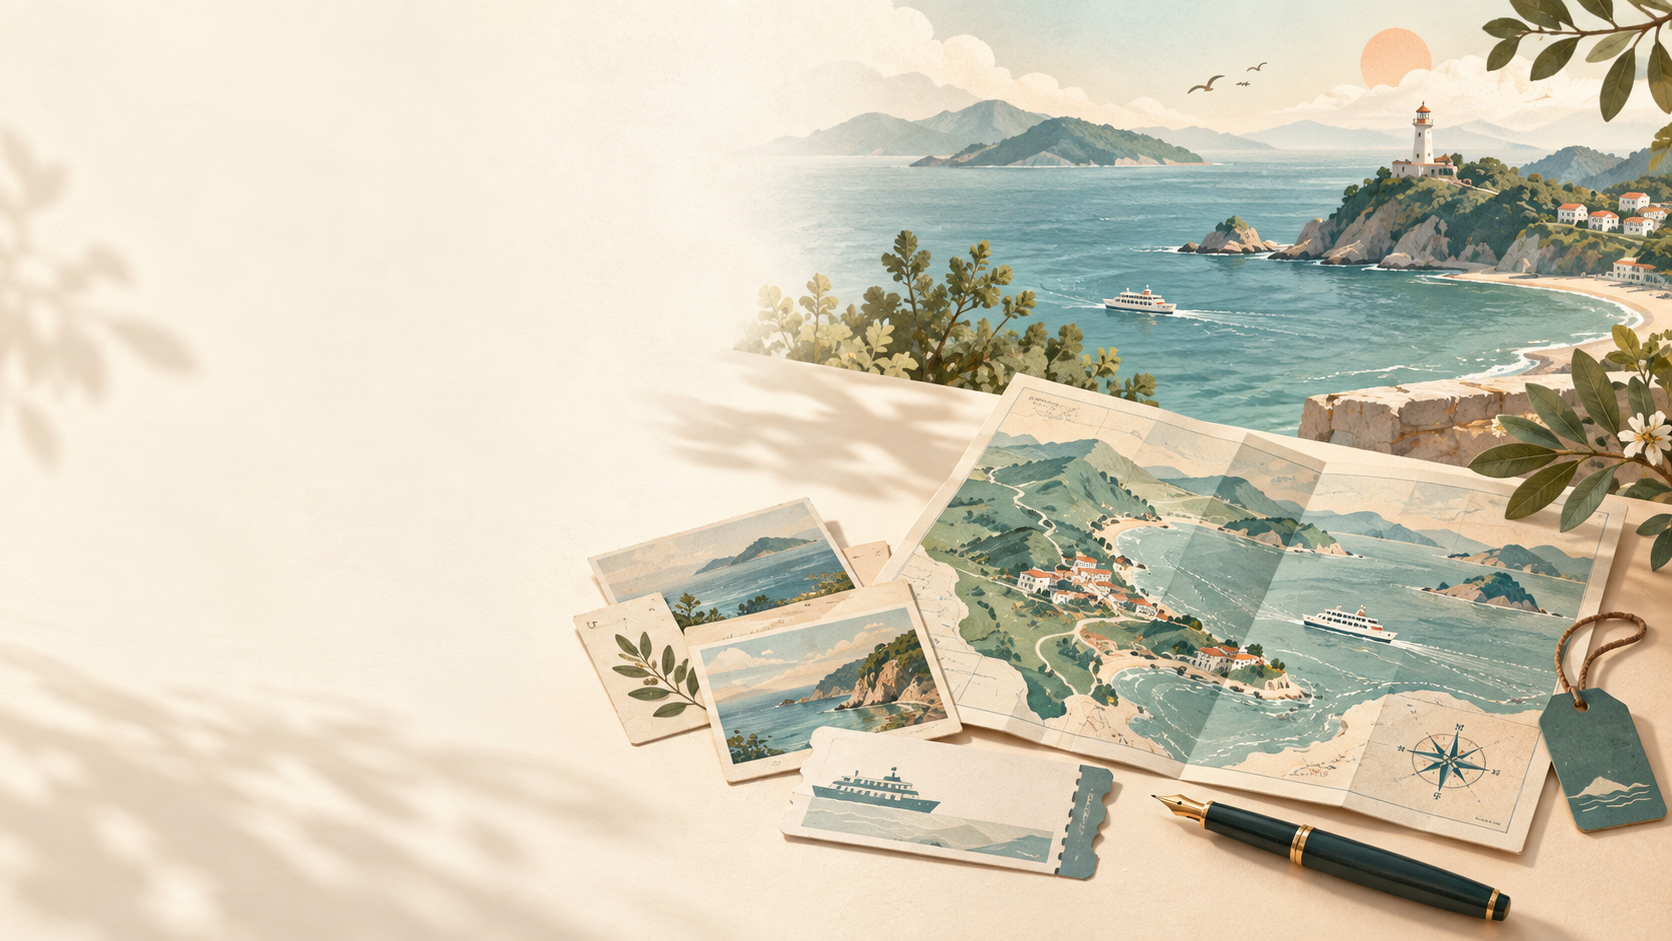
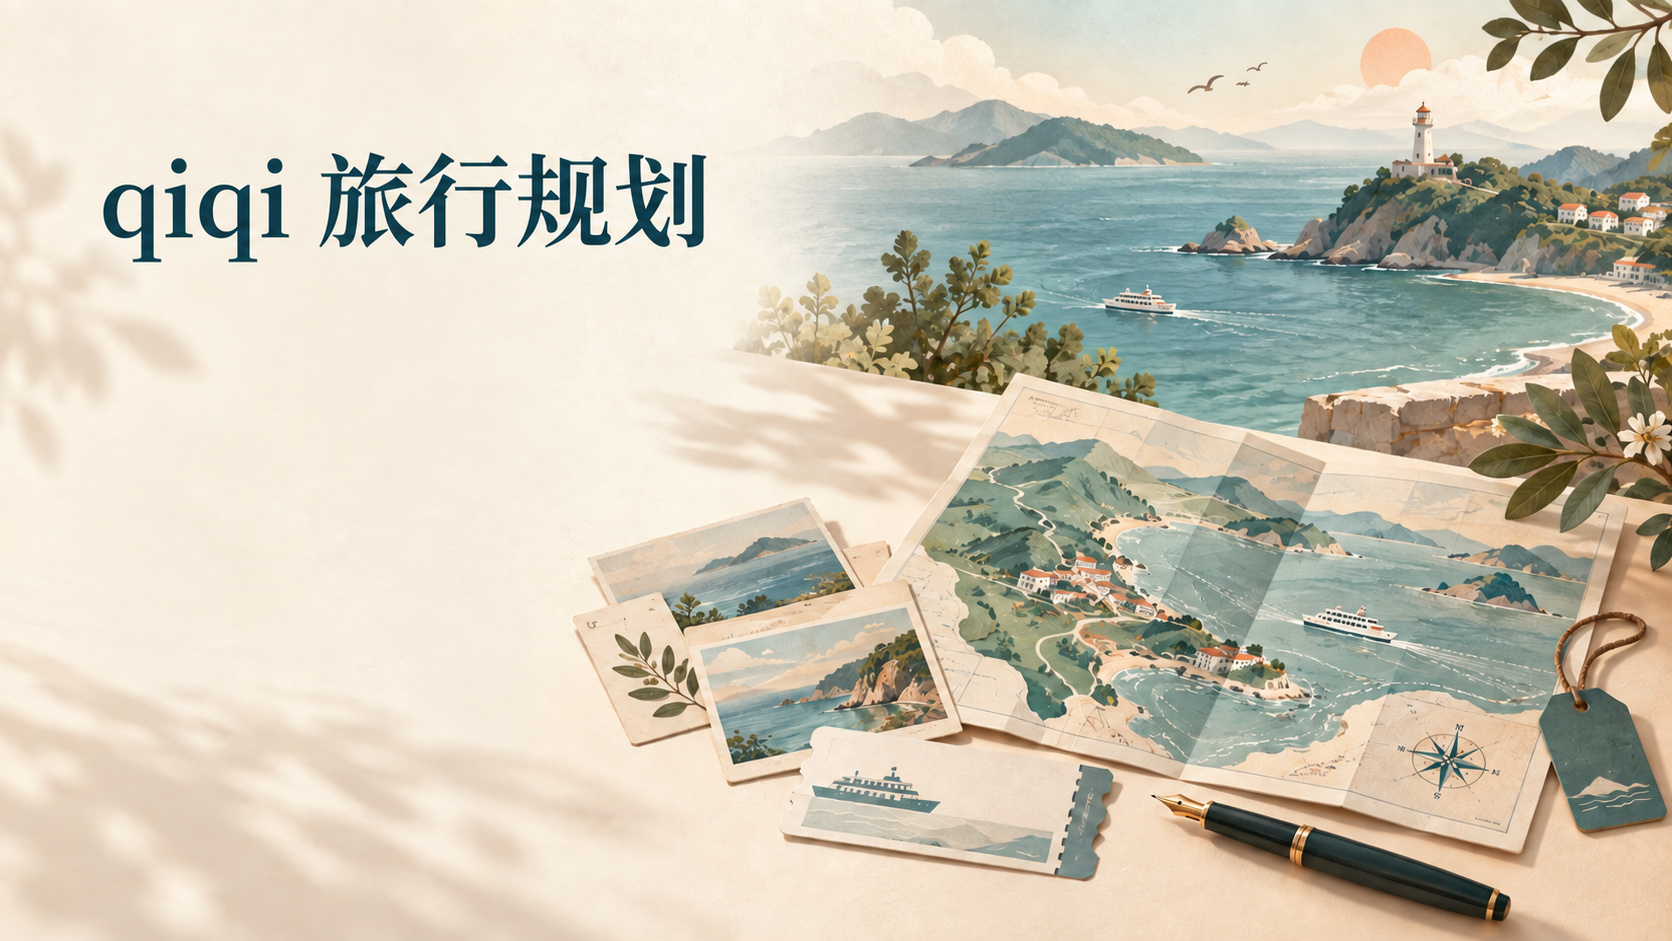
Make the travel planning experience friendlier

diff --git a/README.md b/README.md
@@ -1,99 +1,107 @@
 <p align="center">
-  <img src="docs/images/travel-dossier-hero.png" alt="海岸、旅行地图与纸质行程卡组成的旅行规划插画" width="100%">
+  <img src="docs/images/travel-dossier-hero.png" alt="qiqi 旅行规划：海岸、旅行地图与纸质行程卡" width="100%">
 </p>
 
-<h1 align="center">Travel Plan Pro</h1>
+<h1 align="center">qiqi 旅行规划</h1>
 
 <p align="center">
-  <strong>把旅行愿望变成一份有证据、有余地、可复查的行程。</strong><br>
-  约束先行 · 事实分层 · 同源交付 · 出发前重查
+  <strong>把“想出去玩”变成一份真的能照着走的旅行计划。</strong><br>
+  你负责说想法，AI 帮你把每天安排明白。
 </p>
 
 <p align="center">
-  <a href="#快速开始">快速开始</a> ·
-  <a href="docs/USAGE.md">使用指南</a> ·
-  <a href="docs/examples/outputs/2026-10-10-example-2d_v1.html">打开离线 H5 示例</a> ·
-  <a href="LICENSE">MIT 许可证</a>
+  <a href="#它适合什么时候用">看看它能帮什么</a> ·
+  <a href="#最后你会拿到什么">看看最后交付</a> ·
+  <a href="#三步开始">开始使用</a> ·
+  <a href="docs/USAGE.md">完整使用指南</a>
 </p>
 
 ---
 
-旅行计划最怕的不是“景点不够多”，而是看似完整、实际无法执行。Travel Plan Pro 把同行人、交通、预算、预约、体力与来源状态收进同一份 `trip.json`，再生成同版本的 Markdown 攻略和可离线打开的 HTML 行程页。
+攻略看了很多，真正出发时还是会遇到问题：一天排太满、孩子走不动、长辈要休息、酒店换了位置、下雨了不知道去哪儿……
 
-它适合目的地选择、多日排程、已订安排变更与出发前复查，尤其适合带孩子、长者、预算边界或节奏要求明确的旅行。
+**qiqi 旅行规划**不是再给你一堆景点清单。你把自己的情况告诉它，它会陪你把时间、同行人、预算、交通和想去的地方慢慢理顺，最后交付一份能打开、能分享、出发前也能再检查的行程。
 
-## 为什么这份计划经得起复查
+## 它适合什么时候用
 
-| 规划时关心什么 | Skill 如何处理 |
-| --- | --- |
-| 同行的人能否跟得上 | 把儿童、长者、步行上限、午休与换酒店需求作为硬约束，而不是备注。 |
-| 路线是否真的排得开 | 将开放时间、交通缓冲、预约前提与首末日边界纳入每日排程。 |
-| 信息是否可靠 | 区分用户陈述、已核查事实、社媒体验线索、估算、未知与冲突；未知不会被写成事实。 |
-| 临近出发有变化怎么办 | 生成确定性的复查队列；修改后保存新版本，并让 Markdown、H5 与清单保持同源。 |
+### 想出去，但还没想好去哪
 
-## 一份输入，三层交付
+只知道“这个周末想放松一下”“国庆想带孩子出去玩”，也完全没问题。告诉它出发地、时间、预算和大概喜欢什么，它会先帮你比较合适的方向，再往下安排。
 
-```mermaid
-flowchart LR
-  A[旅行需求与已订安排] --> B[trip.json]
-  B --> C[约束、来源与冲突校验]
-  C --> D[Markdown 攻略]
-  C --> E[离线 HTML 行程页]
-  C --> F[出发前复查队列]
+### 一家人或几个人同行，需求不一样
+
+有人想逛、有人想拍照、有人要带孩子、有人走不了太久——这些都可以直接说。它会把午休、步行、换酒店、早起、行李和返程时间一起考虑，不把所有人塞进一条赶路路线。
+
+### 车票、酒店或天气变了
+
+不需要推倒重来。直接说“第二天想轻松一点”“酒店换到另一个区了”或“下雨怎么办”，它会基于当前版本调整行程，并保留旧版本供你比较。
+
+## 你只要像和朋友聊天一样告诉它
+
+不需要会做表格，也不用先研究一堆旅游攻略。知道多少说多少；车票、酒店还没定，也可以先做计划。
+
+```text
+国庆想从深圳去厦门玩 4 天，2 个大人带一个 4 岁孩子。
+人均预算 3000，想坐高铁，节奏轻松一点；鼓浪屿一定要去。
+现在车票和酒店都还没订，最后给我一份手机上能打开的行程。
 ```
 
-离线 H5 不是另一份“重新编的攻略”：它从相同的 `trip.json` 渲染，提供分区导航、按天筛选、行程骨架与本地保存的打包清单进度。
+它会在真正开始前，把日期、同行人、预算、已订安排和你还没确定的部分问清楚。遇到“4 天 3 晚”和日期对不上、必去点与返程冲突这类情况，也会先和你确认，而不是悄悄替你改掉。
+
+## 它会帮你把哪些事理清
+
+| 旅行里的烦心事 | 你会得到什么 |
+| --- | --- |
+| 不知道先去哪、怎么玩才顺 | 从出发到返程的每日安排：去哪儿、什么时候出发、路上怎么衔接、哪里可以歇一歇。 |
+| 每个人节奏不同 | 把孩子午休、长者体力、连续步行、早起意愿和换酒店需求放进计划里。 |
+| 担心预算越玩越超 | 分开看交通、住宿、门票、吃饭和机动费用；已付和待付不会混在一起。 |
+| 预约、开放时间、路线总在变 | 把已经确认、还要核对、暂时未知的事分开写，出发前知道该检查什么。 |
+| 不想一直翻聊天记录 | 把整份计划做成离线网页，手机或电脑双击就能看。 |
+
+## 最后你会拿到什么
+
+**一份文字攻略，一份随手能看的旅行页面。** 两份内容来自同一份计划：改一次，路线、预算和清单一起更新。
+
+- **Markdown 攻略**：方便你阅读、和同行人讨论、存进笔记。
+- **离线 HTML 行程页**：下载后双击打开；可以按天看路线，查看预算、预约提醒和出发前清单。
+- **复查清单**：把临近出发仍需要确认的船票、开放时间、天气或车次单独列出来。
 
 <p align="center">
-  <a href="docs/examples/outputs/2026-10-10-example-2d_v1.html">查看示例离线 H5</a> ·
-  <a href="docs/examples/outputs/2026-10-10-example-2d_v1.md">阅读示例 Markdown</a> ·
-  <a href="docs/examples/trip.json">查看示例 trip.json</a>
+  <a href="docs/examples/outputs/2026-10-10-example-2d_v1.html">打开离线 H5 示例</a> ·
+  <a href="docs/examples/outputs/2026-10-10-example-2d_v1.md">阅读文字攻略示例</a>
 </p>
 
-> 示例使用虚构地点与来源，仅展示数据结构和交付形式，不可用于实际出行决策。
+> 示例地点和来源均为虚构数据，只展示页面与交付方式，不能用于实际出行决策。
 
-## 快速开始
+## 三步开始
 
-1. 下载本仓库，将目录命名为 `travel-plan-pro`，放入你的项目 `.codex/skills/` 下。
-2. 在 Codex 中描述旅行需求，或直接输入：
+1. 下载本仓库，把文件夹命名为 `travel-plan-pro`，放进项目的 `.codex/skills/` 目录。
+2. 在 Codex 里说：
 
    ```text
    请使用 $travel-plan-pro，帮我规划一次旅行。
    ```
 
-3. 开始前，Skill 会先确认是否使用 TikHub；随后才进行调研、排程、校验与同源渲染。
+3. 像上面一样告诉它旅行需求，边聊边把计划定下来。
 
-一个可直接使用的输入示例：
+## 要不要接 TikHub？你可以自己选
 
-```text
-从深圳出发，10 月 1 日到 4 日去厦门，2 位成人和 1 个 4 岁孩子。
-预算人均 3000，优先高铁和轻松节奏，鼓浪屿必去；去返车票和酒店都还没定。
-我想要离线 HTML 行程页。TikHub 本次需要接入，但先告诉我配置与预算选择。
-```
+第一次使用时，它会先问你要不要接 TikHub，而不是默认调用。
 
-更完整的安装、输入、更新与验证说明见 [使用指南](docs/USAGE.md)。具体的 Agent 工作契约见 [SKILL.md](SKILL.md)。
+- **这次不接**：照样能完成基础旅行计划；只是近期排队、亲子体验、餐厅避雷这类游客经验会少一些。
+- **已有配置，想接入**：在你同意的请求预算内，补充公开小红书里的体验线索。
+- **还不懂怎么配**：可以先让它解释能做什么、可能产生什么成本，再决定是否配置。
 
-## 可选接口与隐私边界
+无论选哪种，它都不会替你订票、付款或预约；也不会把一条社媒笔记当成景点开放、票价或预约名额的最终答案。
 
-核心功能只依赖 Python 标准库；高德、天气和 TikHub 都是可选增强，而不是隐性前提。
+## 想了解它是怎么做到的？
 
-| 选择 | 能得到什么 | 需要知道的边界 |
-| --- | --- | --- |
-| 本次不接 TikHub | 仍可产出包含来源状态、未知项与降级说明的完整方案。 | 在地排队、亲子体验等社媒线索会更薄。 |
-| 接入已有配置 | 在用户授权的请求预算内补充公开小红书体验线索。 | 体验线索不能替代开放、票价、预约、路线或天气的官方核验。 |
-| 需要配置指导 | 先说明能力、费用风险和本机配置方式，不索取密钥。 | 配置与真实请求都需用户明确选择。 |
+面向日常使用者的完整操作在 [使用指南](docs/USAGE.md)。如果你关心数据来源、隐私、接口、版本与测试，再看这些说明：
 
-真实 TikHub 请求要求在本机安全配置 `TIKHUB_API_KEY`，并显式给出 `--budget` 与 `--usage-file`。密钥不得发送到聊天、写进 `trip.json`、HTML 或日志。Skill 不订票、不付款、不预约，也不会把未知的开放、票价、路线或余量写成事实。
-
-## 发布与验证
-
-在 Skill 根目录执行：
-
-```bash
-python3 scripts/release_check.py
-```
-
-该检查运行行为测试，并检查必要文件、示例、Markdown 链接、Python 3.10 语法及发布垃圾文件。GitHub Actions 还会在 macOS、Windows、Ubuntu 与 Python 3.10 / 3.13 上验证相同发布检查。
+- [Skill 工作说明](SKILL.md)
+- [TikHub 的能力与边界](references/tikhub.md)
+- [行程修改与出发前复查](references/lifecycle.md)
+- [发布检查与许可证](LICENSE)
 
 ## 许可证
 
